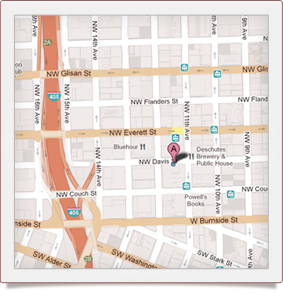
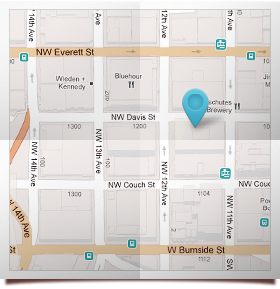
new map link and about header

diff --git a/index.html b/index.html
@@ -59,7 +59,7 @@ tagline: optional tagline
         <p>The Art Institute of Portland is hosting a panel discussion about best practices in interactive team management. Industry professionals from a variety of backgrounds will speak on topics including intra-team communications, project workflow strategies, managing client relationships, how to assemble and retain the ideal interactive team, and balancing budget vs. quality. Admission is free, attendance is priceless.</p>
       </div>
       <a href="http://goo.gl/maps/fYLNA" target="_blank">
-        <img src="{{ ASSET_PATH }}dev/images/map_test.png" height="311" width="311" class="map">
+        <img src="{{ ASSET_PATH }}dev/images/map.png" class="map">
       </a>
     </article>
 

diff --git a/assets/themes/dev/css/style.css b/assets/themes/dev/css/style.css
@@ -239,7 +239,7 @@ form input#submit:active {
 	height: 61px;
 	margin-bottom: 15px;
 	text-indent: -9999px;
-	width: 264px;
+	width: 284px;
 }
 
 #about .map {
